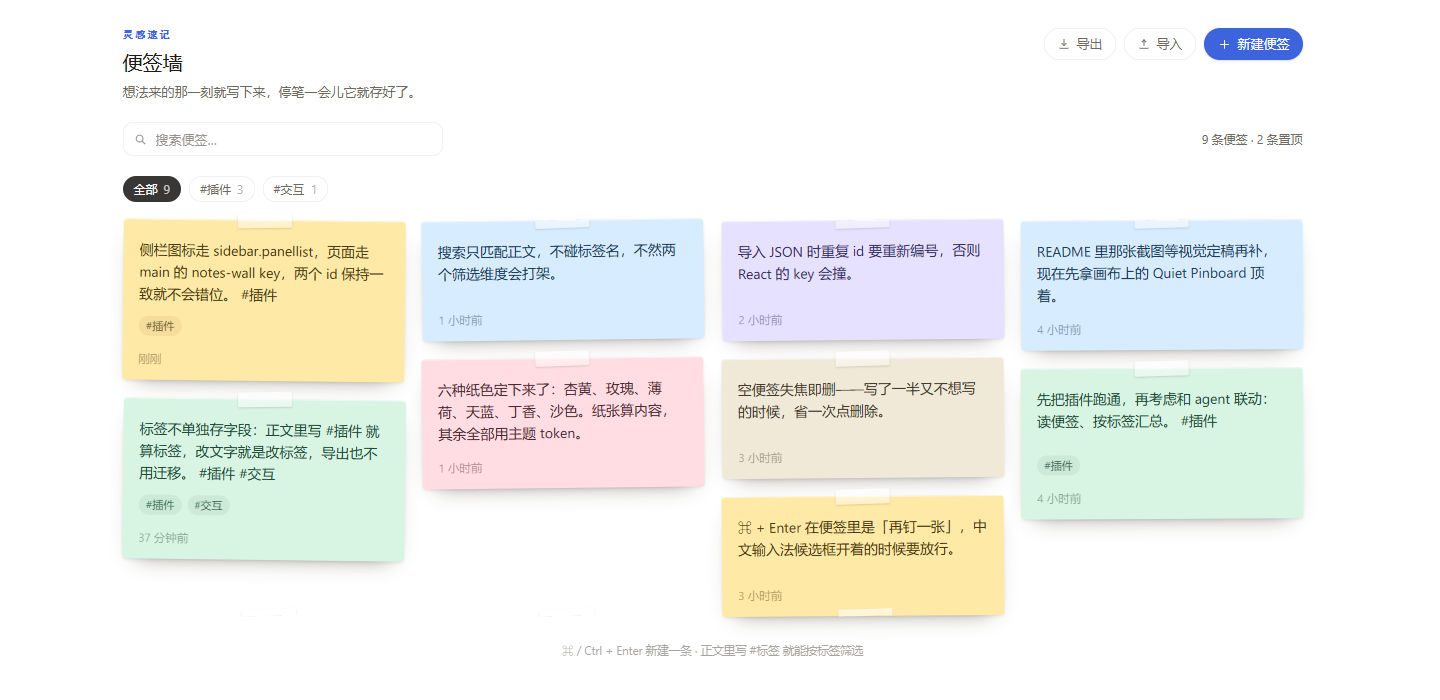
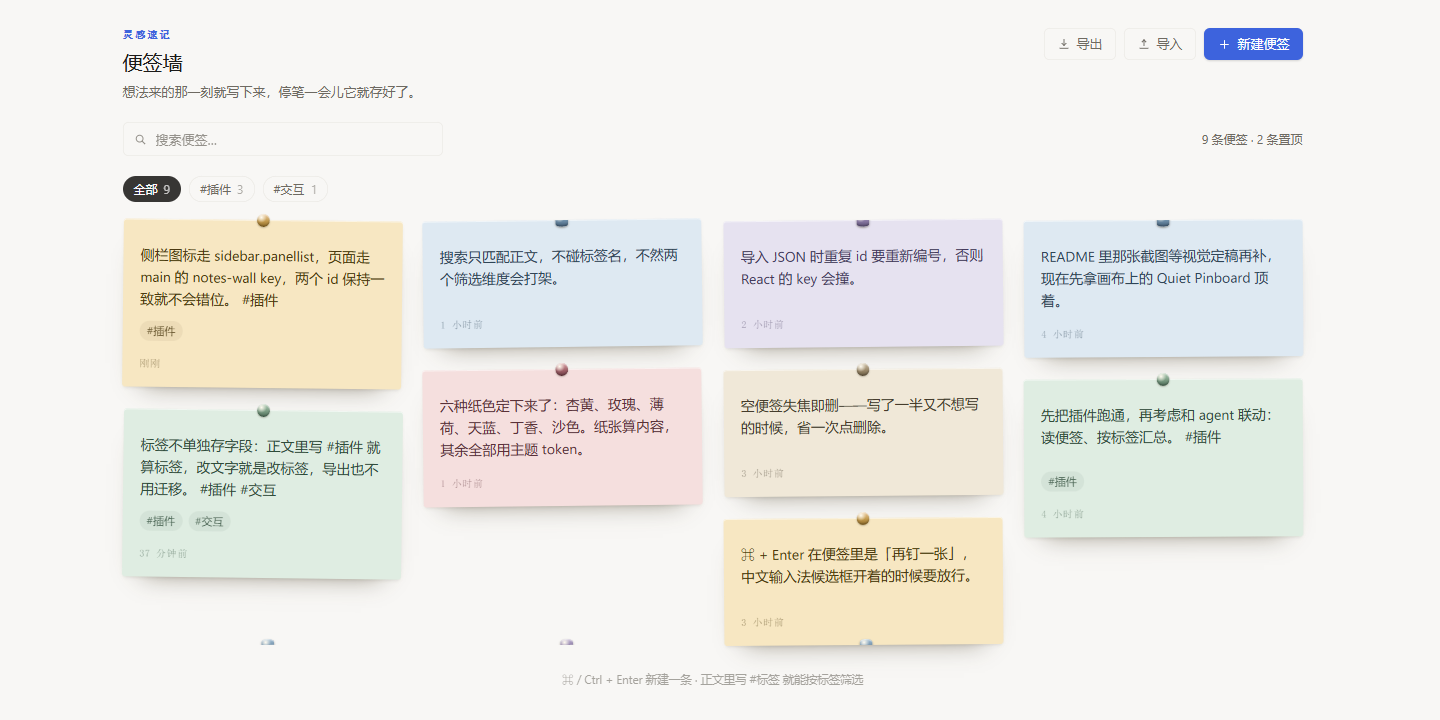
Quiet Pinboard: tinted board, color-matched pins, mono timestamps

diff --git a/client.js b/client.js
@@ -12,12 +12,12 @@ window.__ModuleLoader__.load({
     /* The notes are paper: their colors are content, not chrome. Everything
        around them is drawn with the host's semantic theme tokens. */
     const COLORS = [
-      { id: 'amber', paper: '#ffe9a6', ink: '#4a3810', edge: '#f2d68a' },
-      { id: 'rose', paper: '#ffdde3', ink: '#4d2830', edge: '#f4c4cd' },
-      { id: 'mint', paper: '#d8f4e2', ink: '#1e4a34', edge: '#b9e6cc' },
-      { id: 'sky', paper: '#d8ecff', ink: '#1d3a57', edge: '#b8dcf7' },
-      { id: 'lilac', paper: '#e6e1ff', ink: '#332b5c', edge: '#d2caf8' },
-      { id: 'sand', paper: '#f1e9d8', ink: '#43382a', edge: '#e0d3ba' },
+      { id: 'amber', paper: '#f7e7c2', ink: '#4a3810', edge: '#ebd9ac', pin: '#edcba0, #c29a4e 55%, #8e6b28' },
+      { id: 'rose', paper: '#f5dfde', ink: '#5a3138', edge: '#ebd0cf', pin: '#d9a3a6, #a2626a 55%, #6e3d45' },
+      { id: 'mint', paper: '#dfede2', ink: '#2f4c3a', edge: '#cfe0d4', pin: '#afcbb4, #7a9c83 55%, #4e6e58' },
+      { id: 'sky', paper: '#dee9f2', ink: '#2f4557', edge: '#cfdeea', pin: '#a9c3d8, #6f8fa9 55%, #456079' },
+      { id: 'lilac', paper: '#e6e2f0', ink: '#453a5c', edge: '#d8d2e6', pin: '#c3b7d4, #8c7ca6 55%, #5e5177' },
+      { id: 'sand', paper: '#f0e8d8', ink: '#453c2c', edge: '#e2d7c1', pin: '#cdbea4, #9c8a6c 55%, #6e5f45' },
     ];
 
     const zh = {
@@ -129,6 +129,7 @@ window.__ModuleLoader__.load({
   min-height: 100%;
   overflow: auto;
   padding: calc(var(--dsh-frame-top-clearance, 0px) + 28px) 30px 72px;
+  background: color-mix(in srgb, var(--dsw-alias-bg-base) 94%, #8a7250);
   color: var(--dsw-alias-label-primary);
   font-family: var(--dsw-font-family-text, inherit);
   scrollbar-gutter: stable;
@@ -195,7 +196,7 @@ window.__ModuleLoader__.load({
   height: 32px;
   padding: 0 13px;
   border: 0;
-  border-radius: 16px;
+  border-radius: 6px;
   font: inherit;
   font-size: 13px;
   line-height: 20px;
@@ -241,7 +242,7 @@ window.__ModuleLoader__.load({
   width: min(320px, 46vw);
   height: 34px;
   padding: 0 10px;
-  border-radius: 11px;
+  border-radius: 6px;
   box-shadow: inset 0 0 0 .5px var(--dsw-alias-border-l1);
   color: var(--dsw-alias-label-secondary);
   transition: box-shadow .15s;
@@ -327,8 +328,8 @@ window.__ModuleLoader__.load({
 /* ---- the wall ---- */
 
 .nw-wall {
-  columns: 264px;
-  column-gap: 18px;
+  columns: 248px;
+  column-gap: 22px;
 }
 
 .nw-note {
@@ -336,47 +337,54 @@ window.__ModuleLoader__.load({
   isolation: isolate;
   break-inside: avoid;
   page-break-inside: avoid;
-  margin: 0 0 18px;
-  padding: 20px 16px 10px;
+  margin: 0 0 22px;
+  padding: 25px 17px 12px;
   border-radius: 3px;
-  background: var(--nw-paper, #ffe9a6);
+  background: var(--nw-paper, #f7e7c2);
   color: var(--nw-ink, #4a3810);
   box-shadow:
     inset 0 1px 0 rgba(255, 255, 255, .55),
-    0 10px 22px -14px rgba(36, 28, 10, .55),
-    0 2px 4px -2px rgba(36, 28, 10, .18);
+    0 16px 26px -20px rgba(60, 48, 24, .6),
+    0 2px 4px -2px rgba(60, 48, 24, .2);
   transform: rotate(var(--nw-tilt, 0deg));
   transition: transform .18s ease, box-shadow .18s ease;
 }
 
-.nw-note::before {
-  content: "";
+/* The pin is the paper's hardware: a small metal dome in the note's own
+   colour, so the wall still reads as six separate sheets. */
+.nw-pin {
   position: absolute;
-  top: -7px;
+  top: -6.5px;
   left: 50%;
-  width: 54px;
-  height: 15px;
-  border-radius: 1px;
-  transform: translateX(-50%) rotate(-1.4deg);
-  background: linear-gradient(180deg, rgba(255, 255, 255, .66), rgba(255, 255, 255, .38));
-  box-shadow: 0 1px 2px rgba(60, 48, 20, .16);
+  z-index: 2;
+  width: 13px;
+  height: 13px;
+  margin-left: -6.5px;
+  border-radius: 50%;
+  background:
+    radial-gradient(circle at 34% 26%, rgba(255, 251, 240, 1) 0%, rgba(255, 251, 240, 0) 42%),
+    linear-gradient(180deg, var(--nw-pin, #edcba0));
+  box-shadow:
+    0 1px 2px rgba(46, 34, 14, .38),
+    inset 0 1px 1px rgba(255, 255, 255, .5),
+    inset 0 -1.5px 2px rgba(0, 0, 0, .26);
   pointer-events: none;
 }
 
 .nw-note:hover,
 .nw-note:focus-within {
-  transform: rotate(0deg) translateY(-1px);
+  transform: rotate(0deg) translateY(-2px);
   box-shadow:
     inset 0 1px 0 rgba(255, 255, 255, .55),
-    0 18px 30px -18px rgba(36, 28, 10, .6),
-    0 3px 6px -3px rgba(36, 28, 10, .22);
+    0 22px 32px -20px rgba(60, 48, 24, .62),
+    0 3px 6px -3px rgba(60, 48, 24, .24);
 }
 
 .nw-note:focus-within {
   box-shadow:
     inset 0 1px 0 rgba(255, 255, 255, .55),
-    0 18px 30px -18px rgba(36, 28, 10, .6),
-    0 0 0 2px color-mix(in srgb, var(--dsw-alias-brand-primary) 45%, transparent);
+    0 22px 32px -20px rgba(60, 48, 24, .62),
+    0 0 0 2px var(--dsw-alias-brand-primary);
 }
 
 .nw-input {
@@ -409,9 +417,10 @@ window.__ModuleLoader__.load({
 
 .nw-time {
   color: inherit;
-  opacity: .45;
-  font-size: 11.5px;
-  font-variant-numeric: tabular-nums;
+  opacity: .5;
+  font: 500 10px/1.5 var(--dsw-font-family-code, ui-monospace, monospace);
+  letter-spacing: .06em;
+  text-transform: uppercase;
   white-space: nowrap;
 }
 
@@ -1033,9 +1042,11 @@ window.__ModuleLoader__.load({
           '--nw-paper': color.paper,
           '--nw-ink': color.ink,
           '--nw-edge': color.edge,
+          '--nw-pin': color.pin,
           '--nw-tilt': tiltOf(note.id) + 'deg',
         },
       },
+      h('span', { className: 'nw-pin', 'aria-hidden': 'true' }),
       h('textarea', {
         ref: textRef,
         className: 'nw-input',
